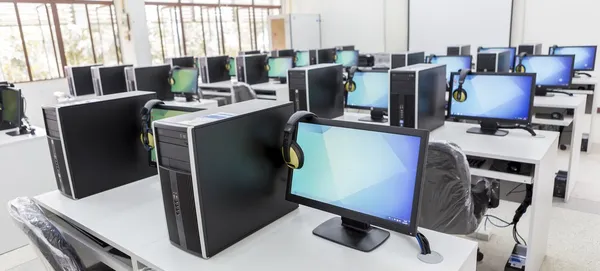
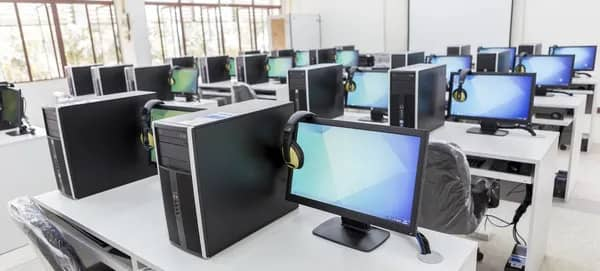
Flujo  completo de imagen

diff --git a/Unidad 02-html/galeria.html b/Unidad 02-html/galeria.html
@@ -29,21 +29,36 @@
     </header>
 
     <main>
+
         <h1>Galería</h1>
-        <img src="./sitio-demo/Recursos/LaboratorioInformatica.jpg"
-            alt="imagen de la galeria de un laboratorio informatico " witdh="600" height="300" />
-        <!--Figure: agrupa un contenido con una explicacion-->
+        <article>
+            <img src="./sitio-demo/Recursos/LaboratorioInformatica.jpg"
+                alt="imagen de la galeria de un laboratorio informatico " witdh="600" height="300" />
+            <!--Figure: agrupa un contenido con una explicacion-->
 
 
-        <figure>
-            <img src="./sitio-demo/Recursos/LaboratorioInformatica2.jpg" alt="Imagen de un segundo laboratorio" ,
-                witdh="600" height="500" />
-            <figcaption>Imagen de laboratorio de informatica</figcaption>
+            <figure>
+                <img src="./sitio-demo/Recursos/LaboratorioInformatica2.jpg" alt="Imagen de un segundo laboratorio" ,
+                    witdh="600" height="500" />
+                <figcaption>Imagen de laboratorio de informatica</figcaption>
 
-        </figure>
+            </figure>
+
+            <!--Varios formatos el navegador elige el uno-->
+            <figure>
+                <picture>
+                    <source srcset="./sitio-demo/Recursos/LaboratorioInformatica3.webp" type="image/webp">
+                    <source srcset="./sitio-demo/Recursos/LaboratorioInformatica3.jpg" type="image/jpeg">
+                    <img src="./sitio-demo/Recursos/LaboratorioInformatica3.jpg"
+                        alt="Imagen de la galeria de un laboratorio" witdh="600" height="500">
+                </picture>
+            </figure>
+
+        </article>
 
 
-
+        <!--AUDIO-->
+        
 
 
 
